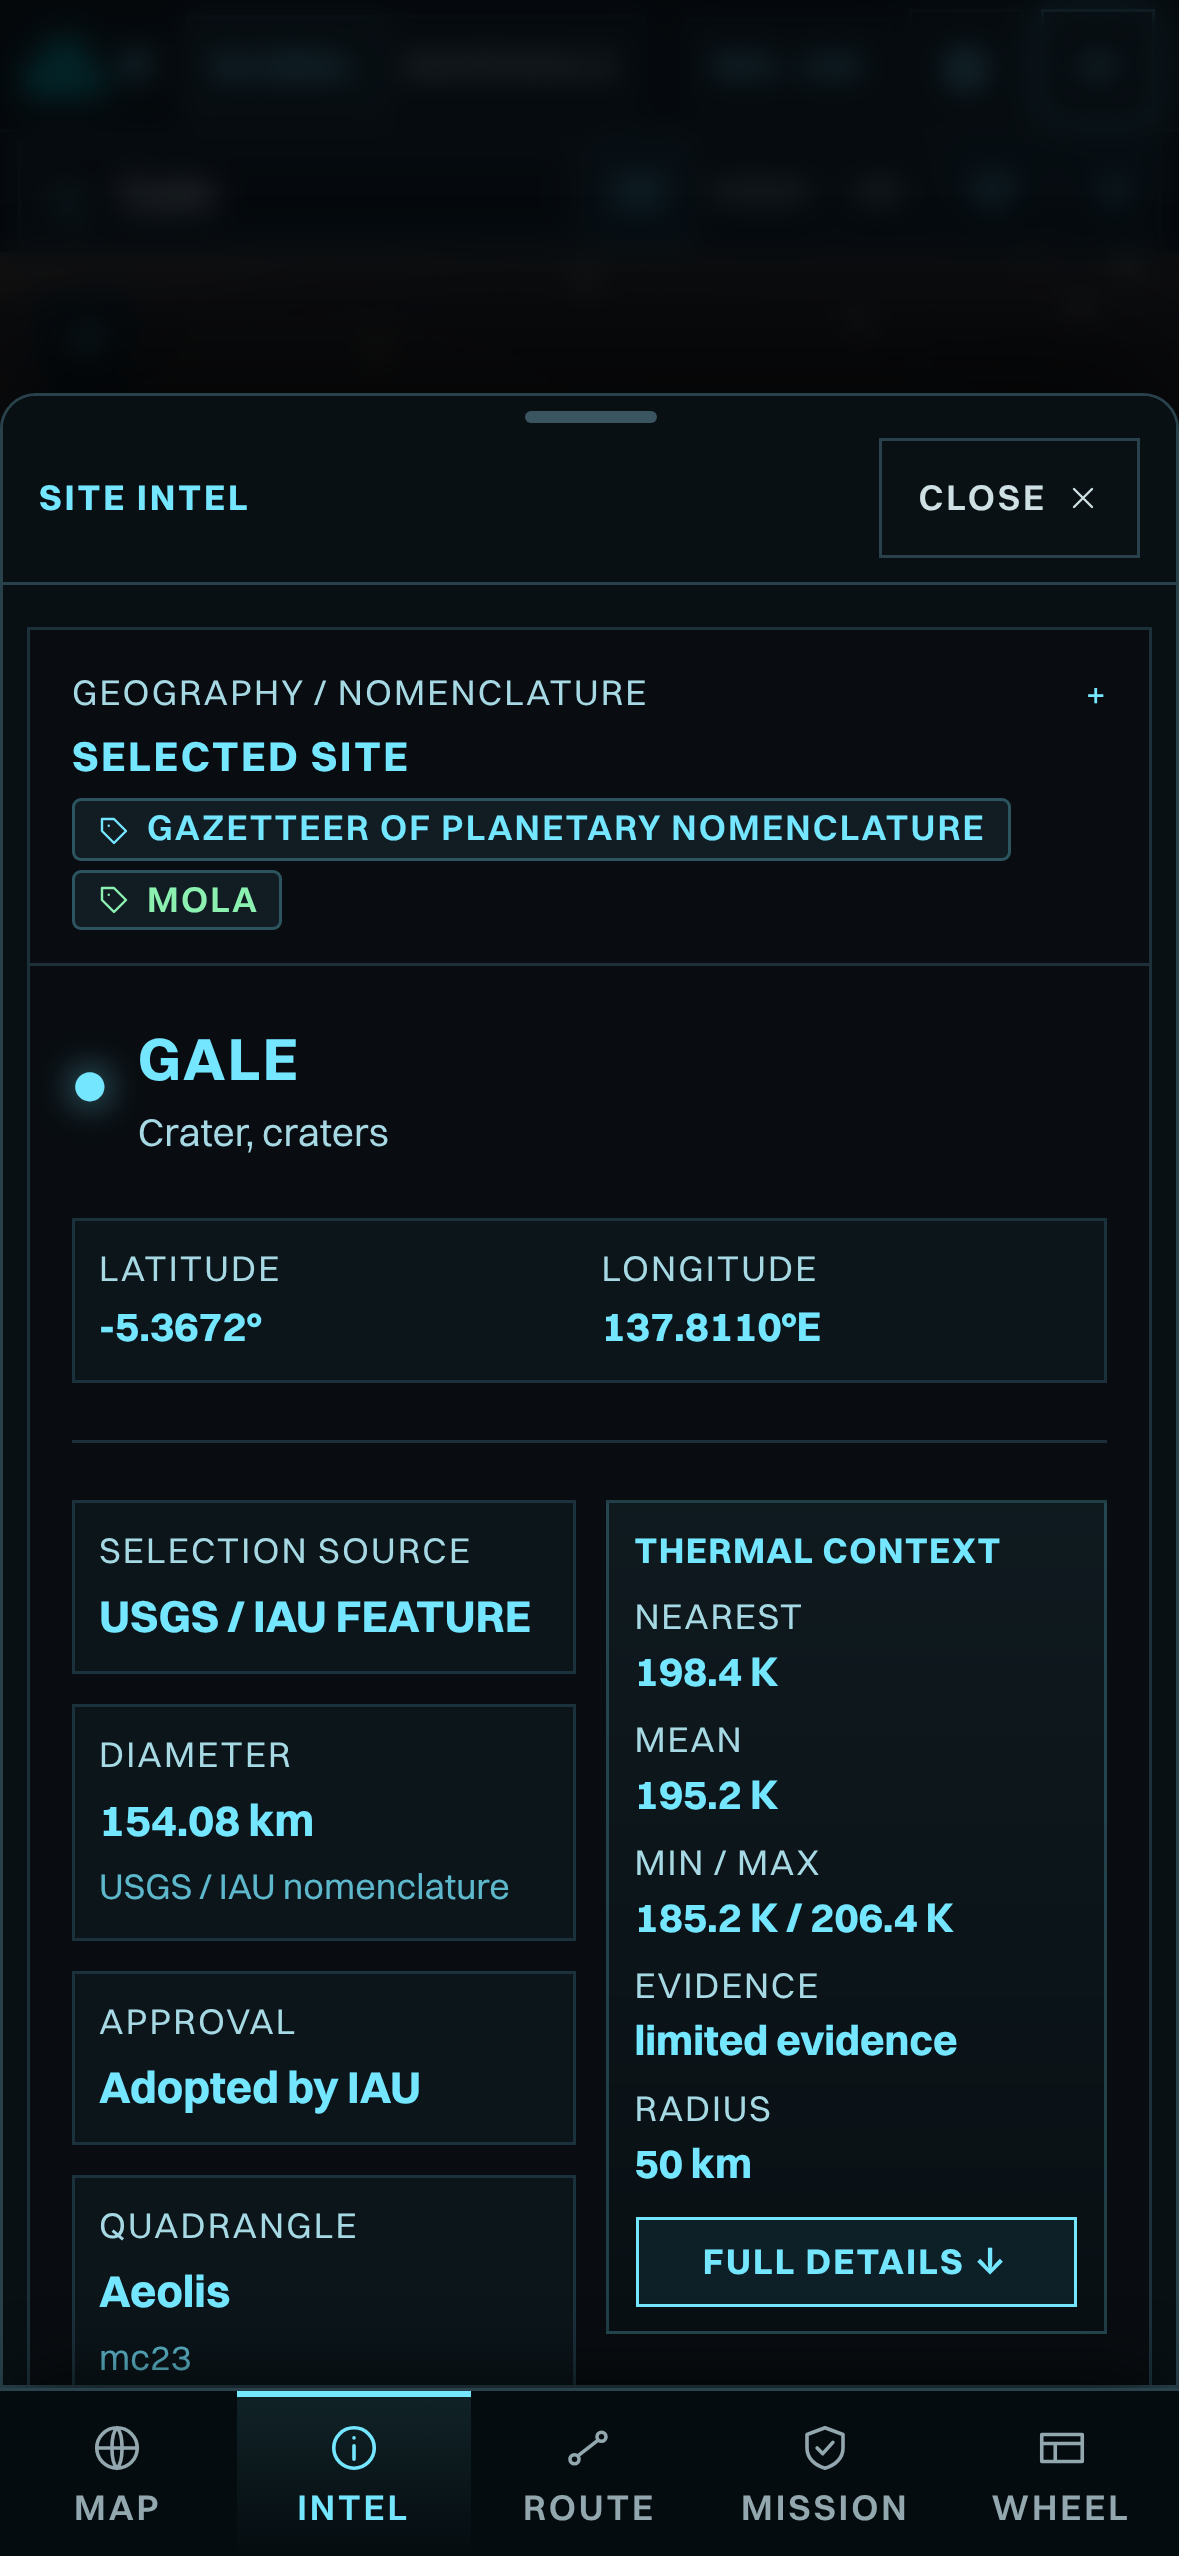
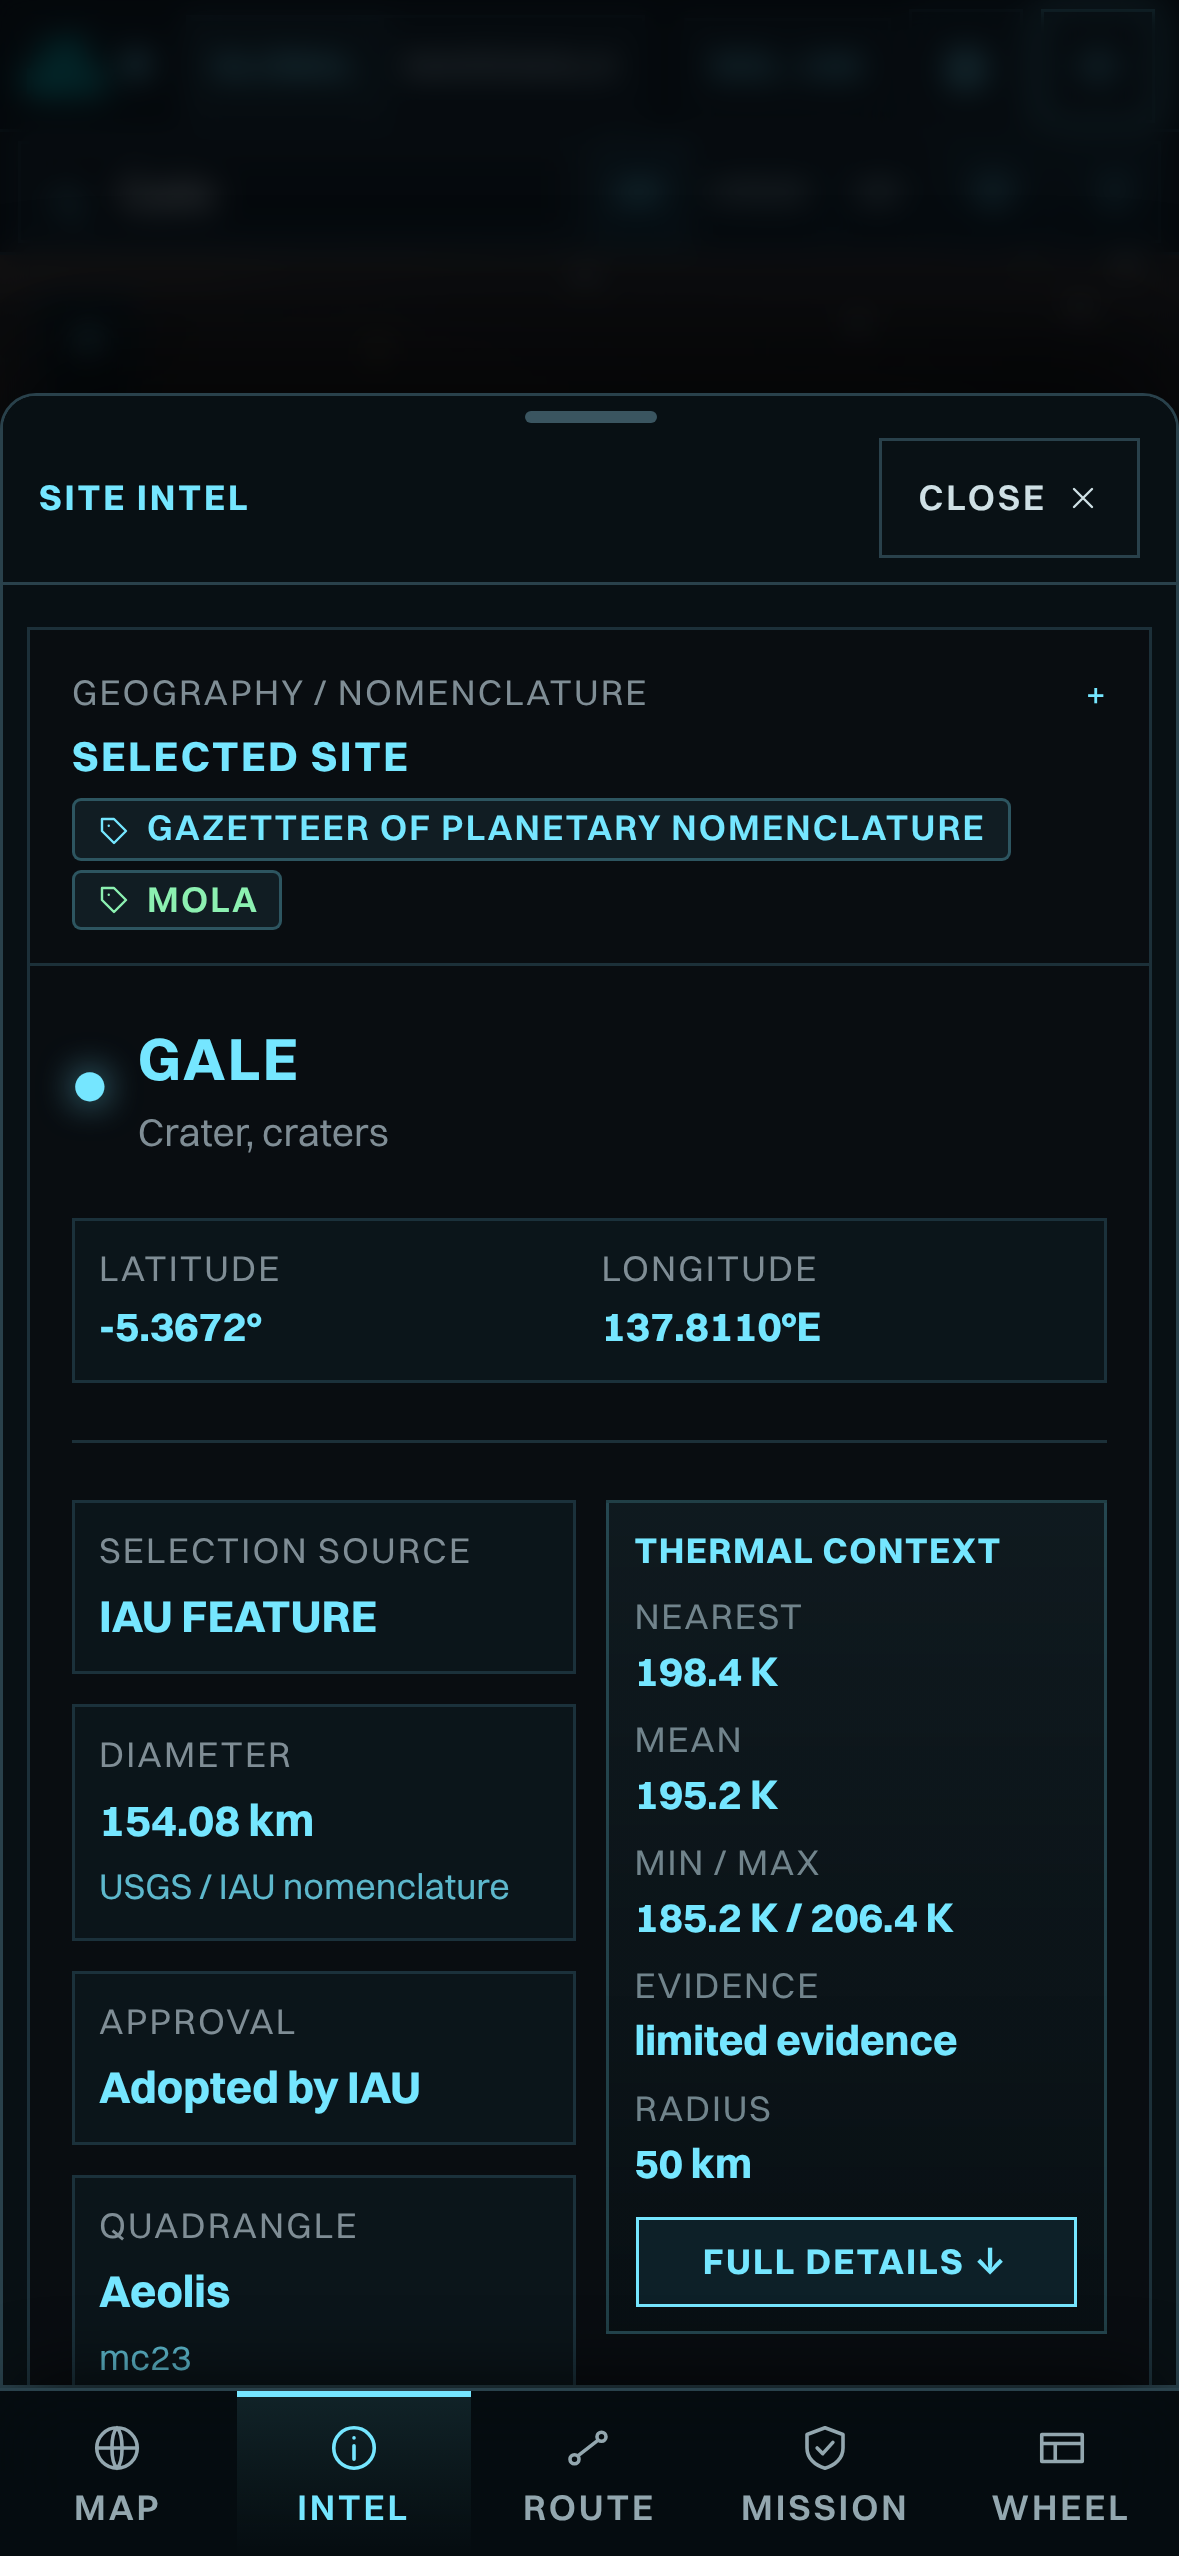
Cyan is exactly #01FFFF on laptops and desktops, matching SYSTEM ONLINE
- 768 px and wider: --nn-cyan and --cyan are #01FFFF; the SYSTEM ONLINE text and
  dot and the selected-site signal use the same value (glows recolored to match)
- Device test expects rgb(1, 255, 255) for the desktop zoom buttons

Claude-Session: https://claude.ai/code/session_01WGYgWxKKb8sWn1uuapz3HA

diff --git a/frontend/src/ui/responsive.css b/frontend/src/ui/responsive.css
@@ -453,13 +453,13 @@
   .topbar .nn-solpill-btn { padding: 0 8px; letter-spacing: 0.03em; }
 }
 
-/* Laptops, desktops, tablets: a deeper cyan for text and accents. The live status dot and the selected-site
- * signal keep the bright cyan, so "online" and "selected" still read at a glance. */
+/* Laptops, desktops, tablets: one exact cyan, #01FFFF, for text and accents, the SYSTEM ONLINE status and
+ * the selected-site signal alike. */
 @media (min-width: 768px) {
-  :root { --nn-cyan: #139dc0; --cyan: #139dc0; }
-  #root .status-dot { color: #75e6ff; }
-  #root .status-dot > span { background: #75e6ff; }
-  #root .signal { color: #75e6ff; }
+  :root { --nn-cyan: #01ffff; --cyan: #01ffff; }
+  #root .status-dot { color: #01ffff; }
+  #root .status-dot > span { background: #01ffff; box-shadow: 0 0 13px rgba(1, 255, 255, 0.75); }
+  #root .signal { color: #01ffff; text-shadow: 0 0 12px rgba(1, 255, 255, 0.7); }
   /* Thermal context summary without a box: a quiet left rule instead. */
   .site-thermal-summary { border: 0; border-left: 1px solid rgba(117, 230, 255, 0.18); background: none; padding: 2px 0 2px 10px; }
 }
